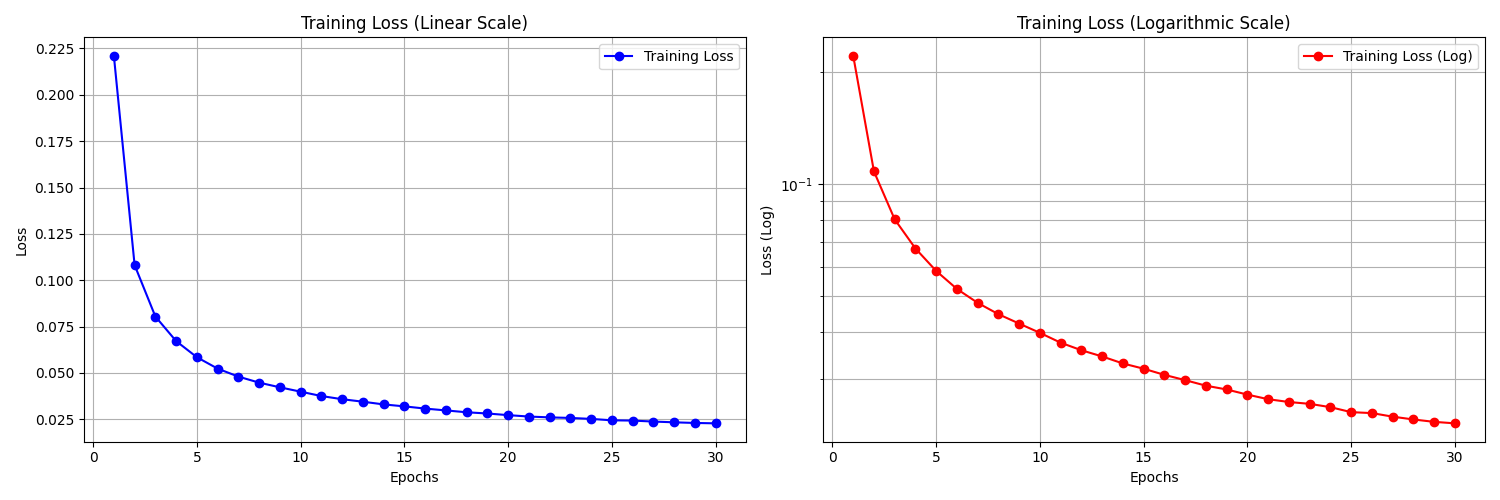
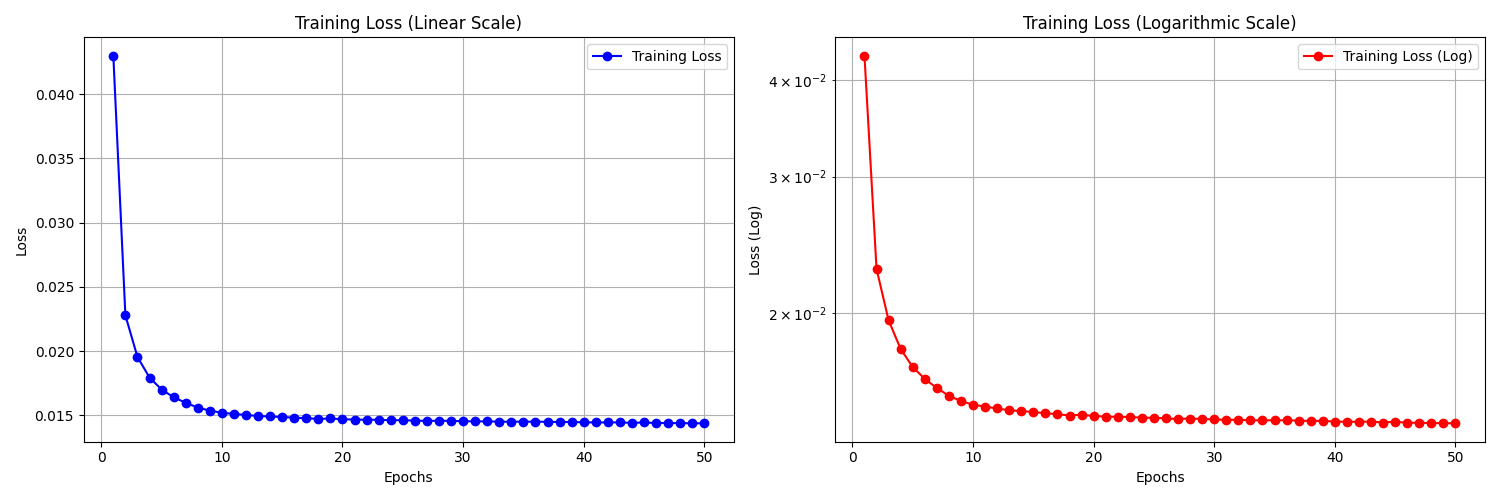
pathcore_ae.py

diff --git a/src/models/patchcore_ae.py b/src/models/patchcore_ae.py
@@ -1,0 +1,206 @@
+import os
+import torch
+import sys
+import torch.nn as nn
+import torch.optim as optim
+from torchvision import models
+import torch.nn.functional as F
+import numpy as np
+from sklearn.metrics import classification_report, confusion_matrix, precision_recall_fscore_support
+from sklearn.model_selection import train_test_split
+import matplotlib.pyplot as plt
+from torch.utils.data import DataLoader
+from tqdm import tqdm
+current_dir = os.path.dirname(os.path.abspath(__file__))
+parent_dir = os.path.dirname(current_dir)
+project_root = os.path.dirname(parent_dir)
+sys.path.append(parent_dir)
+# Import your custom helpers
+from dataLoader.dataLoader import get_anomaly_dataloaders
+from visualization_helper import plot_loss, plot_error_distribution, plot_confusion_matrix_custom
+from mlflow_helper import MLFlowTracker
+# ---------------------------------------------------------
+# 1. Configuration & Data Loading
+# ---------------------------------------------------------
+TRAIN_PATH = os.path.join(project_root, 'data', 'OCT', 'train')
+TEST_PATH = os.path.join(project_root, 'data', 'OCT', 'test')
+IMG_SIZE = 224
+BATCH_SIZE = 32 # Keep this reasonable, PatchCore generates a LOT of data
+DEVICE = torch.device("cuda" if torch.cuda.is_available() else "cpu")
+print("Loading datasets...")
+train_loader, test_loader, normal_idx = get_anomaly_dataloaders(
+    train_path=TRAIN_PATH, 
+    test_path=TEST_PATH, 
+    img_size=IMG_SIZE,
+    n_train_normal = 40000, # Reduced for testing speed, increase later
+    n_test_normal = 5000,
+    n_test_anomaly=750,
+    num_workers=8,
+    batch_size=BATCH_SIZE
+)
+# ---------------------------------------------------------
+# 2. PatchCore Feature Extractor (ResNet18)
+# ---------------------------------------------------------
+print(f"Loading ResNet18 Backbone onto {DEVICE}...")
+resnet = models.resnet18(weights=models.ResNet18_Weights.IMAGENET1K_V1).to(DEVICE)
+resnet.eval()
+# We use forward hooks to grab the localized texture features before they are flattened
+features = {}
+def get_features(name):
+    def hook(model, input, output):
+        features[name] = output.detach()
+    return hook
+resnet.layer2.register_forward_hook(get_features('layer2')) # 128 channels
+resnet.layer3.register_forward_hook(get_features('layer3')) # 256 channels
+def extract_patch_features(imgs):
+    """Extracts and formats PatchCore features from an image batch."""
+    with torch.no_grad():
+        _ = resnet(imgs.to(DEVICE))
+        f2 = features['layer2']
+        f3 = features['layer3']
+        
+        # Resize layer2 feature map to match layer3's spatial dimensions
+        f2 = F.interpolate(f2, size=f3.shape[2:], mode='bilinear', align_corners=False)
+        
+        # Combine the features (128 + 256 = 384 dimensions per patch)
+        f_cat = torch.cat([f2, f3], dim=1) 
+        
+        # PatchCore Average Pooling (blends neighborhood features smoothly)
+        f_pool = F.avg_pool2d(f_cat, kernel_size=3, stride=1, padding=1)
+        
+        B, C, H, W = f_pool.shape
+        # Flatten spatial dimensions: Instead of 1 image vector, we get H*W patch vectors
+        patches = f_pool.permute(0, 2, 3, 1).reshape(B, H * W, C)
+        return patches # Shape: [Batch_Size, Num_Patches_Per_Image, 384]
+# ---------------------------------------------------------
+# 3. The Patch Autoencoder
+# ---------------------------------------------------------
+# Takes a 384-D patch feature, compresses it, and rebuilds it.
+class PatchAutoencoder(nn.Module):
+    def __init__(self):
+        super().__init__()
+        self.encoder = nn.Sequential(
+            nn.Linear(384, 128),
+            nn.ReLU(),
+            nn.Linear(128, 64) # The Patch Bottleneck
+        )
+        self.decoder = nn.Sequential(
+            nn.Linear(64, 128),
+            nn.ReLU(),
+            nn.Linear(128, 384)
+        )
+    def forward(self, x):
+        return self.decoder(self.encoder(x))
+ae_model = PatchAutoencoder().to(DEVICE)
+criterion = nn.MSELoss(reduction='none') # Notice 'none': we want error per patch
+optimizer = optim.Adam(ae_model.parameters(), lr=0.001)
+# ---------------------------------------------------------
+# 4. Training Loop (On-the-fly extraction to save RAM)
+# ---------------------------------------------------------
+tracker = MLFlowTracker(experiment_name="PatchCore_Autoencoder")
+EPOCHS = 5 # PatchCore trains faster because 1 image = ~196 patches
+with tracker as run:
+    tracker.log_params({
+        "backbone": "resnet18_layer2_layer3",
+        "ae_bottleneck": 64,
+        "epochs": EPOCHS,
+        "strategy": "PatchCore_AE_MaxPatchError"
+    })
+    print("\nTraining Patch Autoencoder...")
+    train_losses = []
+    
+    for epoch in range(EPOCHS):
+        ae_model.train()
+        batch_losses = []
+        
+        for imgs, _ in tqdm(train_loader, desc=f"Epoch {epoch+1}/{EPOCHS}"):
+            # 1. Extract patches from ResNet
+            patches = extract_patch_features(imgs) # [B, 196, 384]
+            
+            # Flatten all patches into a giant list for the AE
+            patches_flat = patches.reshape(-1, 384) 
+            
+            # 2. Train AE on patches
+            recon = ae_model(patches_flat)
+            loss = criterion(recon, patches_flat).mean()
+            
+            optimizer.zero_grad()
+            loss.backward()
+            optimizer.step()
+            
+            batch_losses.append(loss.item())
+            
+        avg_loss = np.mean(batch_losses)
+        train_losses.append(avg_loss)
+        print(f"Epoch [{epoch+1}/{EPOCHS}] Loss: {avg_loss:.6f}")
+    # ---------------------------------------------------------
+    # 5. Evaluation & Image-Level Scoring
+    # ---------------------------------------------------------
+    ae_model.eval()
+    print("\nExtracting test scores...")
+    
+    def get_image_anomaly_scores(loader):
+        image_scores = []
+        labels = []
+        with torch.no_grad():
+            for imgs, lbls in tqdm(loader, desc="Scoring"):
+                patches = extract_patch_features(imgs) # [B, 196, 384]
+                B, num_patches, dims = patches.shape
+                
+                recon = ae_model(patches.reshape(-1, dims))
+                
+                # Calculate MSE per patch
+                patch_errors = torch.mean((patches.reshape(-1, dims) - recon)**2, dim=1)
+                
+                # Reshape back to [Batch, Num_Patches]
+                patch_errors = patch_errors.view(B, num_patches)
+                
+                # THE PATCHCORE SECRET: An image's anomaly score is the max error of its worst patch
+                img_max_errors = torch.max(patch_errors, dim=1)[0].cpu().numpy()
+                
+                image_scores.extend(img_max_errors)
+                labels.extend(lbls.numpy())
+        return np.array(image_scores), np.array(labels)
+    # Score the training set to establish a baseline
+    train_scores, _ = get_image_anomaly_scores(train_loader)
+    all_test_scores, test_labels_raw = get_image_anomaly_scores(test_loader)
+    y_true_all = np.array([0 if l == normal_idx else 1 for l in test_labels_raw])
+    # ---------------------------------------------------------
+    # 6. F1-Optimization on Validation Split
+    # ---------------------------------------------------------
+    val_errs, test_errs, val_lbls, test_lbls = train_test_split(
+        all_test_scores, y_true_all, test_size=0.5, stratify=y_true_all, random_state=42
+    )
+    print("\nRunning F1-Maximization on Validation Set...")
+    best_thresh, best_f1 = 0, 0
+    thresholds_to_test = np.linspace(val_errs.min(), val_errs.max(), 1000)
+    
+    for t in thresholds_to_test:
+        temp_preds = (val_errs > t).astype(int)
+        _, _, f1, _ = precision_recall_fscore_support(val_lbls, temp_preds, average='binary', zero_division=0)
+        if f1 > best_f1:
+            best_f1, best_thresh = f1, t
+    tracker.log_metric("optimal_threshold", best_thresh)
+    print(f"Optimal Threshold Found: {best_thresh:.6f} (Validation F1: {best_f1:.4f})")
+    # ---------------------------------------------------------
+    # 7. Final Test Evaluation
+    # ---------------------------------------------------------
+    test_preds = [1 if e > best_thresh else 0 for e in test_errs]
+    precision, recall, final_f1, _ = precision_recall_fscore_support(test_lbls, test_preds, average='binary')
+    tracker.log_metrics({"test_precision": precision, "test_recall": recall, "test_f1": final_f1})
+    print("\n" + "="*30)
+    print("FINAL PERFORMANCE (PATCHCORE + AUTOENCODER)")
+    target_names = ['Healthy (Normal)', 'Pathology (Anomaly)']
+    cm = confusion_matrix(test_lbls, test_preds)
+    print(classification_report(test_lbls, test_preds, target_names=target_names))
+    # Visualizations
+    MODEL_NAME = "patchcore_ae"
+    plot_loss(train_losses, "patchcore_loss.png", MODEL_NAME)
+    plot_confusion_matrix_custom(cm, target_names, "patchcore_cm.png", MODEL_NAME)
+    plot_error_distribution(
+        train_scores, 
+        test_errs[np.array(test_lbls) == 0], 
+        test_errs[np.array(test_lbls) == 1], 
+        best_thresh, "patchcore_dist.png", MODEL_NAME
+    )
+    plt.show()

diff --git a/src/dataLoader/dataLoader.py b/src/dataLoader/dataLoader.py
@@ -10,7 +10,8 @@ def get_anomaly_dataloaders(
     n_test_normal=250, 
     n_test_anomaly=30, 
     img_size=224, 
-    batch_size=32
+    batch_size=32,
+    num_workers=8  # <--- Added this parameter (8 is the sweet spot for 4090s)
 ):
     """
     Creates DataLoaders for Anomaly Detection.

diff --git a/README.md b/README.md
@@ -1,3 +1,6 @@
+<<<<<<< HEAD
+# Project Master
+=======
 Data Source :
 
 | Dataset | Normal | DRUSEN | DME    | CNV    |
@@ -13,6 +16,6 @@ Data Source :
 | Isolation forest          |      |
 | Vit + isolation forest    |      |
 | resnet + isolation forest |      |
-| swin transformer          |      |
-|                           |      |
-|                           |      |
+| patchcore  + autoencoder        |      |
+|             |      |
+|                           |      
